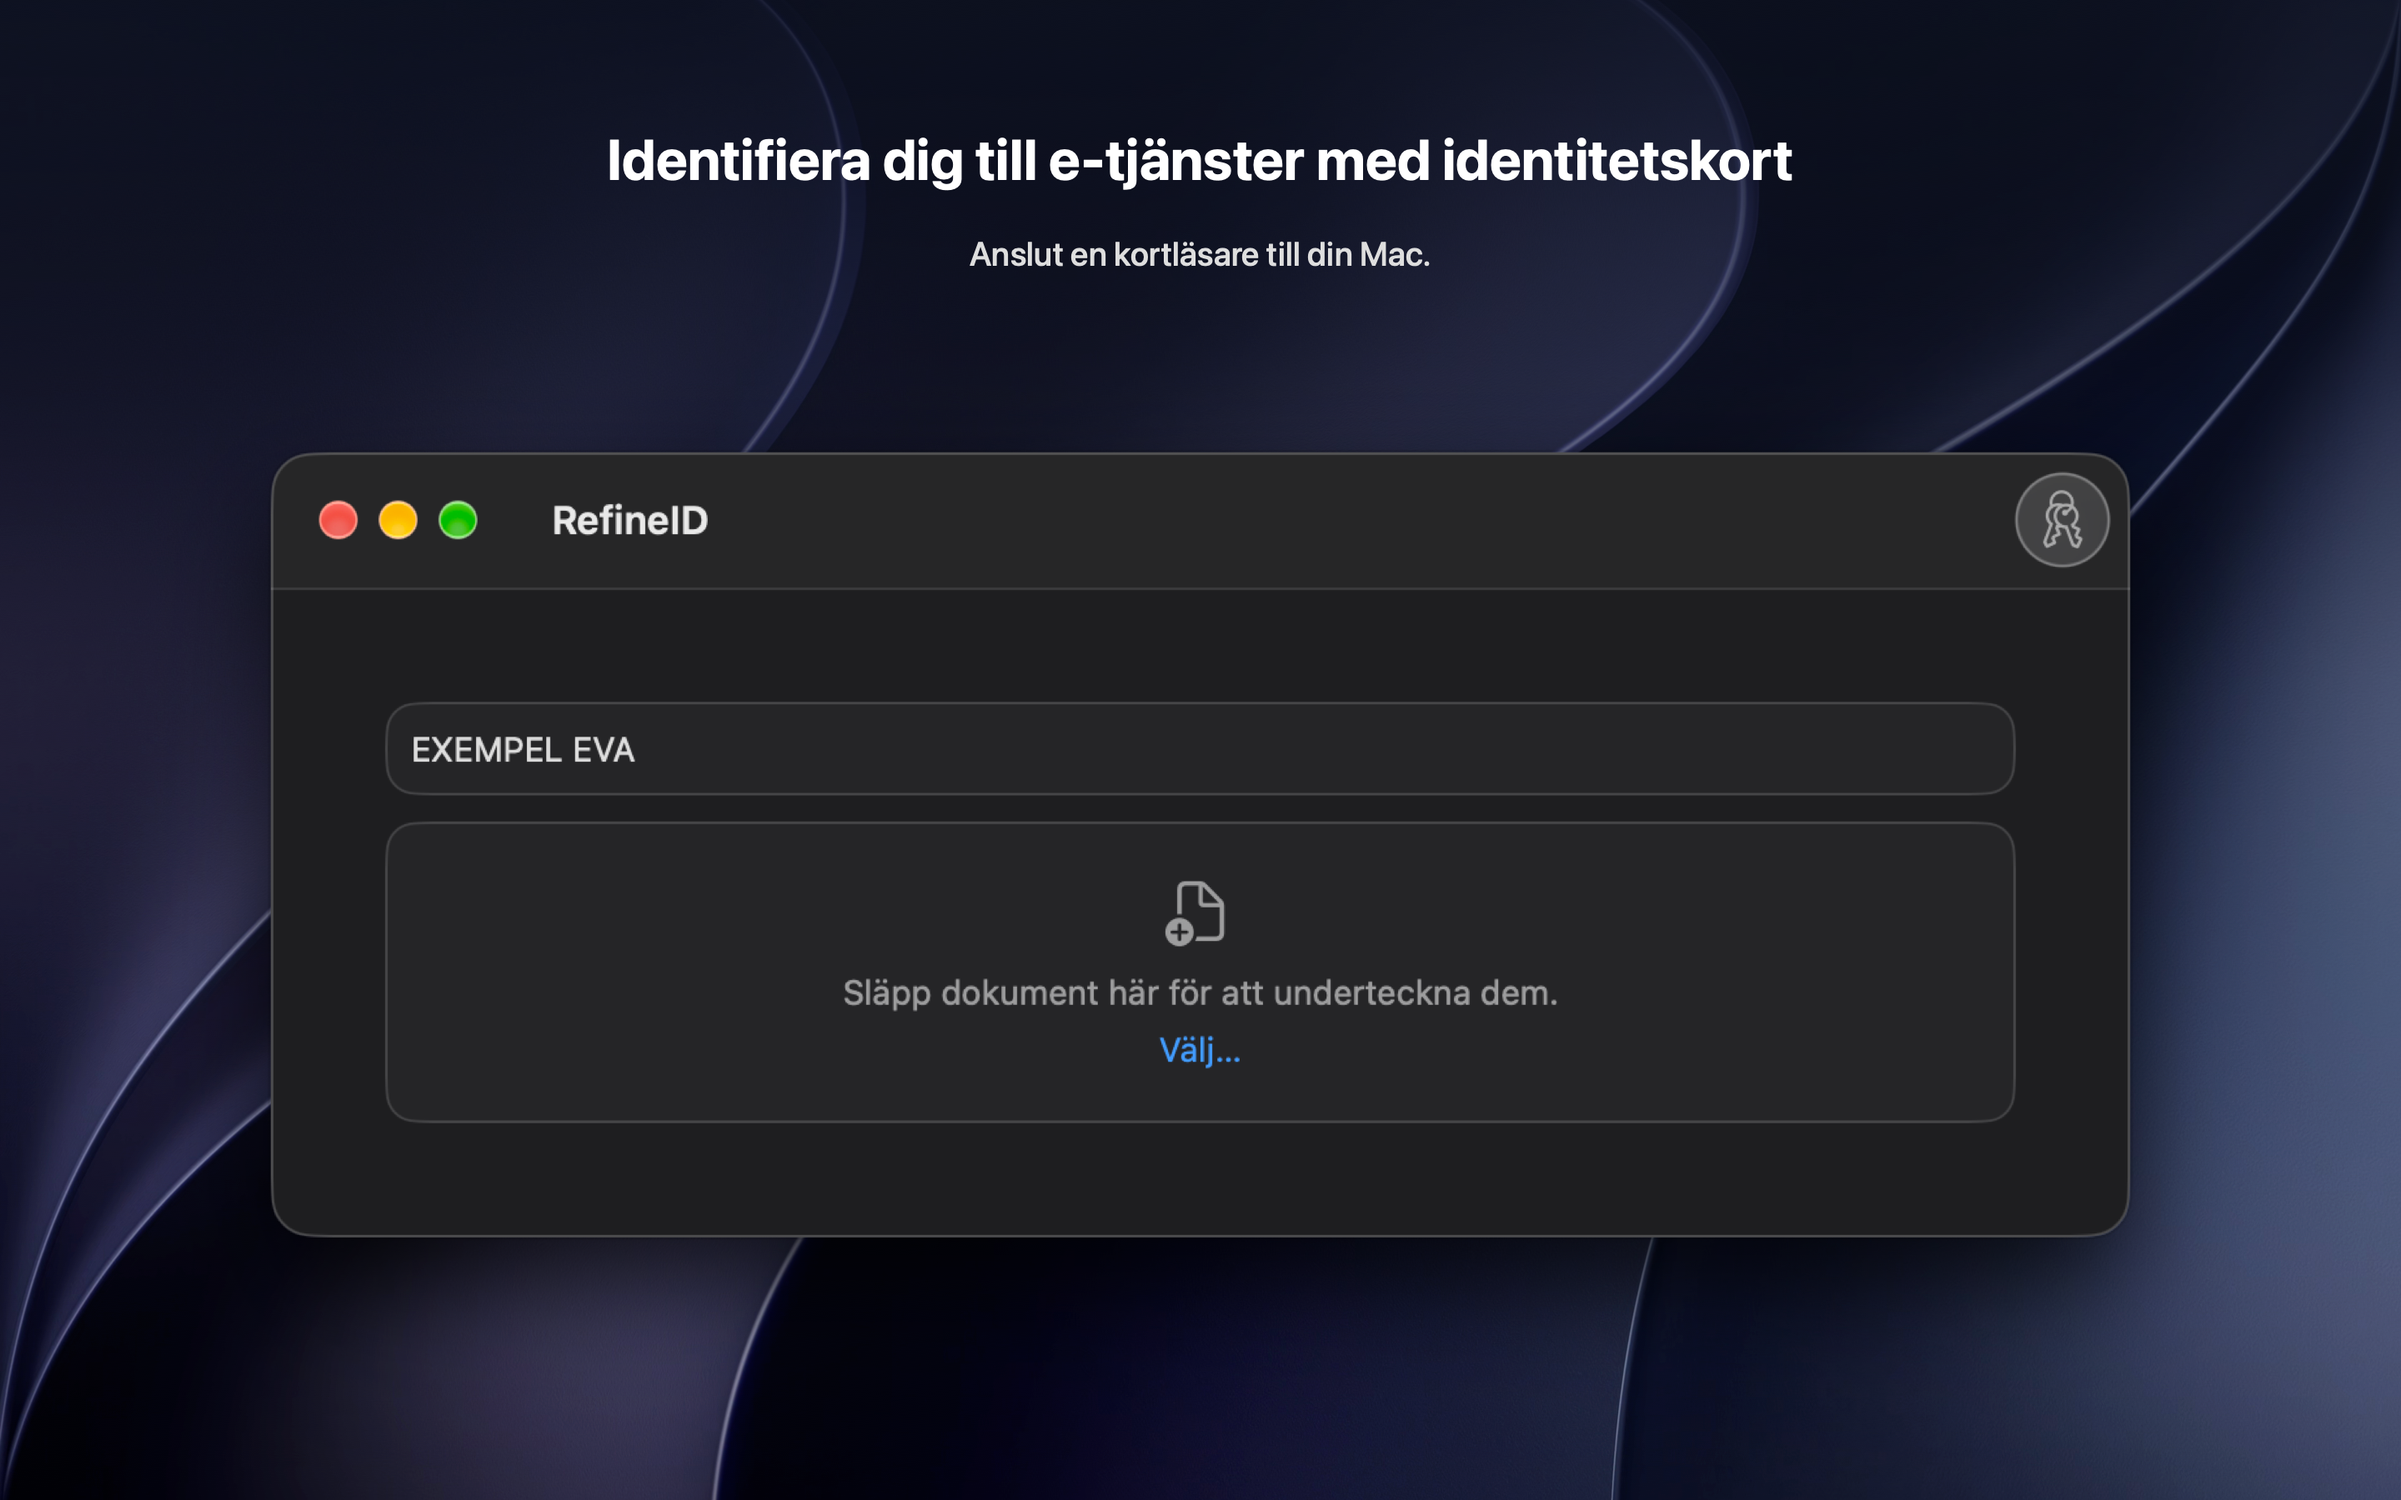
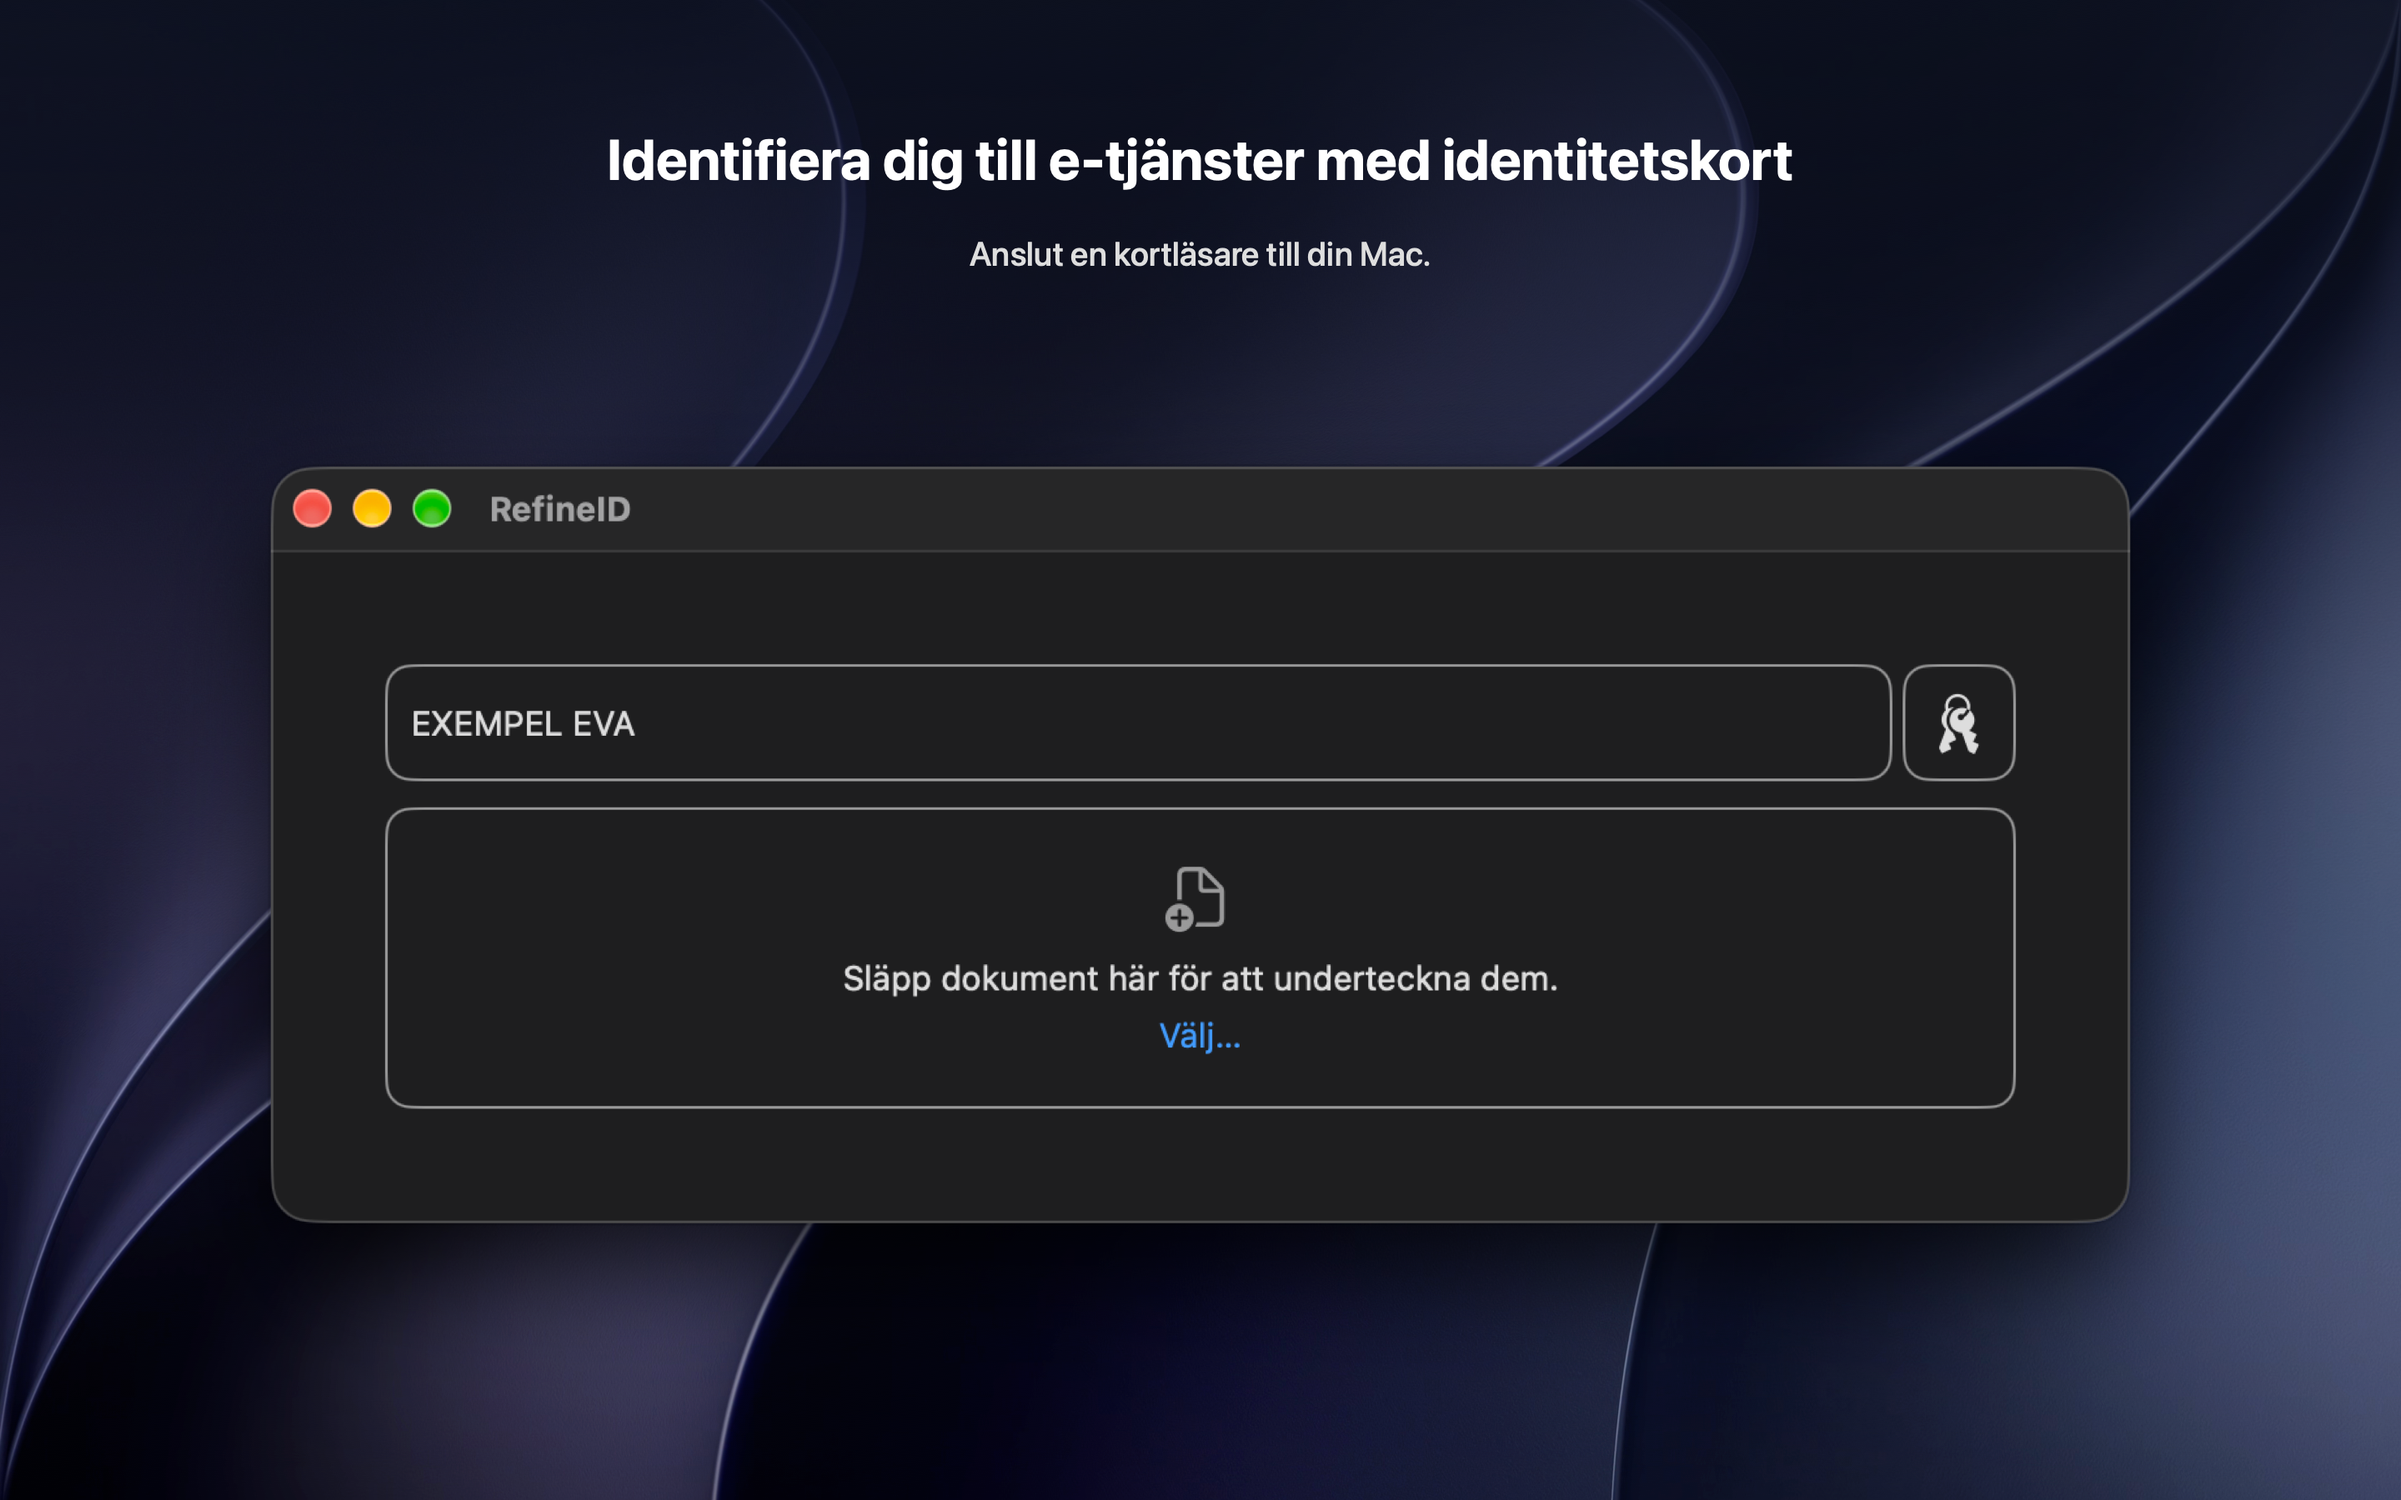
Localize the demonstrated document name and keep Mac captures key (#550)
The Mac demonstration document name was the English literal `Review
document.pdf` in every locale, because the temp file it writes is shown
by its file name. It now comes from the existing `demo.document` catalog
entry (fi "Tarkistettava asiakirja.pdf", sv "Dokument för
granskning.pdf"), which the iOS signing screen already reads.

The first recapture also caught a Finnish frame with an inactive window
(grey controls). `storeSettledCapture` now brings a named Mac copy
forward before every attempt and keeps a frame only while that copy is
frontmost.

Verification: `Scripts/lint.py` passed; commit and full pre-push PR
gates passed locally. Refreshed images inspected at 2880x1800 in all
three locales: localized file name, live key window, no alpha.

STPA: no control action or feedback path in the product changes. The
capture script now refuses feedback (`screencapture`) from a process
model it cannot confirm (frontmost check), which is the same guard the
settle loop already applies to motion.

diff --git a/Scripts/apple-app-store-connect-release-manager.swift b/Scripts/apple-app-store-connect-release-manager.swift
@@ -63,6 +63,7 @@ import CoreGraphics
 import CryptoKit
 import Foundation
 import ImageIO
+import AppKit
 
 // MARK: - Local release engineering
 
@@ -1800,10 +1801,20 @@ private func storeShowsContent(_ image: CGImage, pixels: Data) -> Bool {
   }
 }
 
+/// Whether a copy that shows a window is the frontmost application. Only
+/// a key window draws its controls live, so an inactive frame is never kept.
+private func storeIsFrontmost(_ pid: pid_t) -> Bool {
+  NSWorkspace.shared.frontmostApplication?.processIdentifier == pid
+}
+
 /// Captures until the screen shows content and holds still, so no image is
 /// taken of a launch screen, mid-animation, or before its content arrived.
-/// Answers why it failed, or nil.
-private func storeSettledCapture(to destination: URL, capture: (URL) -> Void) -> String? {
+/// A named Mac copy is brought forward before every attempt and must stay
+/// frontmost for its frame to count. Answers why it failed, or nil.
+private func storeSettledCapture(
+  to destination: URL, frontmost pid: pid_t? = nil, activate: () -> Void = {},
+  capture: (URL) -> Void
+) -> String? {
   let scratch = releaseFileManager.temporaryDirectory
     .appendingPathComponent("refineid-store-\(UUID().uuidString)")
   do {
@@ -1815,7 +1826,13 @@ private func storeSettledCapture(to destination: URL, capture: (URL) -> Void) ->
   var previous: Data?
   var still = 0
   for attempt in 0..<storeSettleAttempts {
+    activate()
     Thread.sleep(forTimeInterval: storeSettleInterval)
+    guard pid.map(storeIsFrontmost) ?? true else {
+      previous = nil
+      still = 0
+      continue
+    }
     let file = scratch.appendingPathComponent("\(attempt).png")
     capture(file)
     guard let image = storeImage(file), let data = image.dataProvider?.data,
@@ -1907,6 +1924,8 @@ private func storeCaptureMacWindow(app: URL, arguments: [String], to destination
   guard let window = storeWaitForWindow(of: pid) else { return "the built copy showed no window" }
   if let failure = storeSettledCapture(
     to: destination,
+    frontmost: pid,
+    activate: { releaseRun("/usr/bin/open", ["-a", app.path, "--args"] + arguments) },
     capture: { file in
       releaseRun("/usr/sbin/screencapture", ["-x", "-l\(window.id)", file.path])
     })

diff --git a/Sources/App/StatusView+Notes.swift b/Sources/App/StatusView+Notes.swift
@@ -186,8 +186,11 @@
 
     /// Creates or returns the demonstration PDF document URL.
     internal static func demoDocumentURL() -> URL {
-      let tempDir = FileManager.default.temporaryDirectory
-      let demoDocURL = tempDir.appendingPathComponent("Review document.pdf")
+      let name = String(
+        localized: "demo.document", defaultValue: "Review document.pdf",
+        table: "DocumentSigning")
+      let demoDocURL = FileManager.default.temporaryDirectory
+        .appendingPathComponent(name)
       if !FileManager.default.fileExists(atPath: demoDocURL.path) {
         let pdfData = Data("%PDF-1.4\n% Virtual demonstration document\n%%EOF".utf8)
         try? pdfData.write(to: demoDocURL, options: .atomic)
